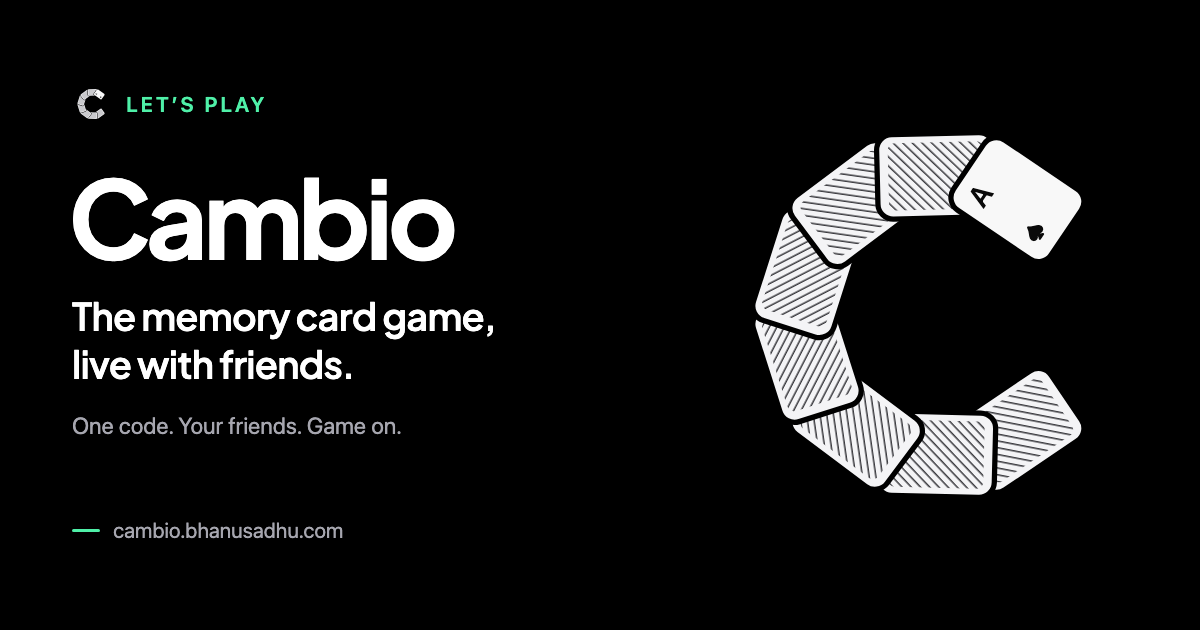
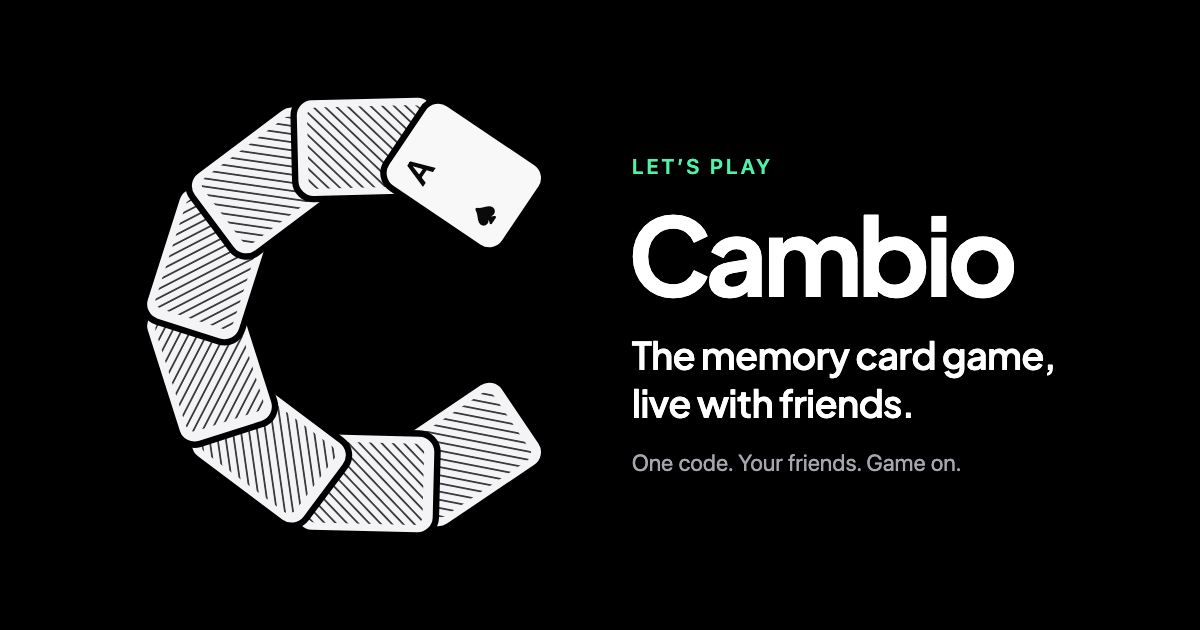
Put the C on the left of the share image with the text balanced beside it, and let the red king lead the drifting cards

Changed region(s): [[0.0617, 0.1206, 0.4625, 0.8746], [0.5242, 0.2111, 0.925, 0.7841], [0.5242, 0.2413, 0.6475, 0.2714]]

diff --git a/src/components/Hero.tsx b/src/components/Hero.tsx
@@ -88,17 +88,17 @@ function TypedLine({ phrases, className = "" }: { phrases: string[]; className?:
   );
 }
 
-const ACE: Card = { id: "drift-ace", rank: "A", suit: "S" };
+const KING: Card = { id: "drift-king", rank: "K", suit: "H" };
 
-/** Faint cards crossing behind the mark, slowly, at different depths. The ace leads. */
-const DRIFT: { left: number; top: number; width: number; tilt: number; seconds: number; alpha: number; ace?: boolean }[] = [
+/** Faint cards crossing behind the mark, slowly, at different depths. The red king leads. */
+const DRIFT: { left: number; top: number; width: number; tilt: number; seconds: number; alpha: number; face?: boolean }[] = [
   { left: 4, top: 14, width: 34, tilt: -14, seconds: 96, alpha: 0.12 },
   { left: 20, top: 46, width: 24, tilt: 10, seconds: 128, alpha: 0.08 },
   { left: 33, top: 6, width: 22, tilt: -22, seconds: 150, alpha: 0.06 },
   { left: 70, top: 10, width: 40, tilt: 12, seconds: 88, alpha: 0.12 },
   { left: 86, top: 40, width: 28, tilt: -8, seconds: 112, alpha: 0.08 },
   { left: 60, top: 54, width: 30, tilt: 18, seconds: 136, alpha: 0.07 },
-  { left: 12, top: 30, width: 30, tilt: 8, seconds: 104, alpha: 0.2, ace: true },
+  { left: 12, top: 30, width: 30, tilt: 8, seconds: 104, alpha: 0.2, face: true },
 ];
 
 function HeroDrift() {
@@ -147,9 +147,9 @@ function HeroDrift() {
           <div key={i} data-drift className="absolute" style={{ left: `${card.left}%`, top: `${card.top}%`, opacity: card.alpha }}>
             <div style={{ transform: `rotate(${card.tilt}deg)` }}>
               <div style={vars}>
-                {card.ace ? (
+                {card.face ? (
                   <div className="origin-top-left" style={{ width: card.width, height: card.width * 1.42 }}>
-                    <div className="origin-top-left" style={{ transform: `scale(${card.width / 36})` }}><FaceCard card={ACE} size="sm" /></div>
+                    <div className="origin-top-left" style={{ transform: `scale(${card.width / 36})` }}><FaceCard card={KING} size="sm" /></div>
                   </div>
                 ) : <CardBack size="lg" />}
               </div>

diff --git a/e2e/brand.spec.ts b/e2e/brand.spec.ts
@@ -48,7 +48,7 @@ test("the logo renders with its name, decorative cards, and every icon wired", a
 
   await expect(page.locator('link[rel="icon"][type="image/svg+xml"]')).toHaveCount(1);
   await expect(page.locator('link[rel="apple-touch-icon"]')).toHaveAttribute("sizes", "180x180");
-  await expect(page.locator('meta[property="og:image"]')).toHaveAttribute("content", /\/social\/cambio-share\.png$/);
+  await expect(page.locator('meta[property="og:image"]')).toHaveAttribute("content", /\/social\/cambio-share\.png(\?v=\d+)?$/);
   await expect(page.locator('meta[name="twitter:card"]')).toHaveAttribute("content", "summary_large_image");
   for (const path of ["/favicon.ico", "/icon.svg", "/icon1.png", "/icon2.png", "/apple-icon.png", "/icons/icon-192.png", "/icons/icon-512.png", "/manifest.webmanifest", "/social/cambio-share.png"]) {
     expect((await page.request.get(path)).status(), path).toBe(200);

diff --git a/src/app/layout.tsx b/src/app/layout.tsx
@@ -15,8 +15,9 @@ const jakarta = Plus_Jakarta_Sans({
 });
 
 const shareImage = {
-  // Generated by scripts/brand-assets.mjs. A new file name makes link previews fetch it again.
-  url: `${SITE_URL}/social/cambio-share.png`,
+  // Generated by scripts/brand-assets.mjs. Bump the version whenever it changes, so
+  // apps that cached an earlier preview of a link fetch the new one.
+  url: `${SITE_URL}/social/cambio-share.png?v=2`,
   width: 1200,
   height: 630,
   type: "image/png",
